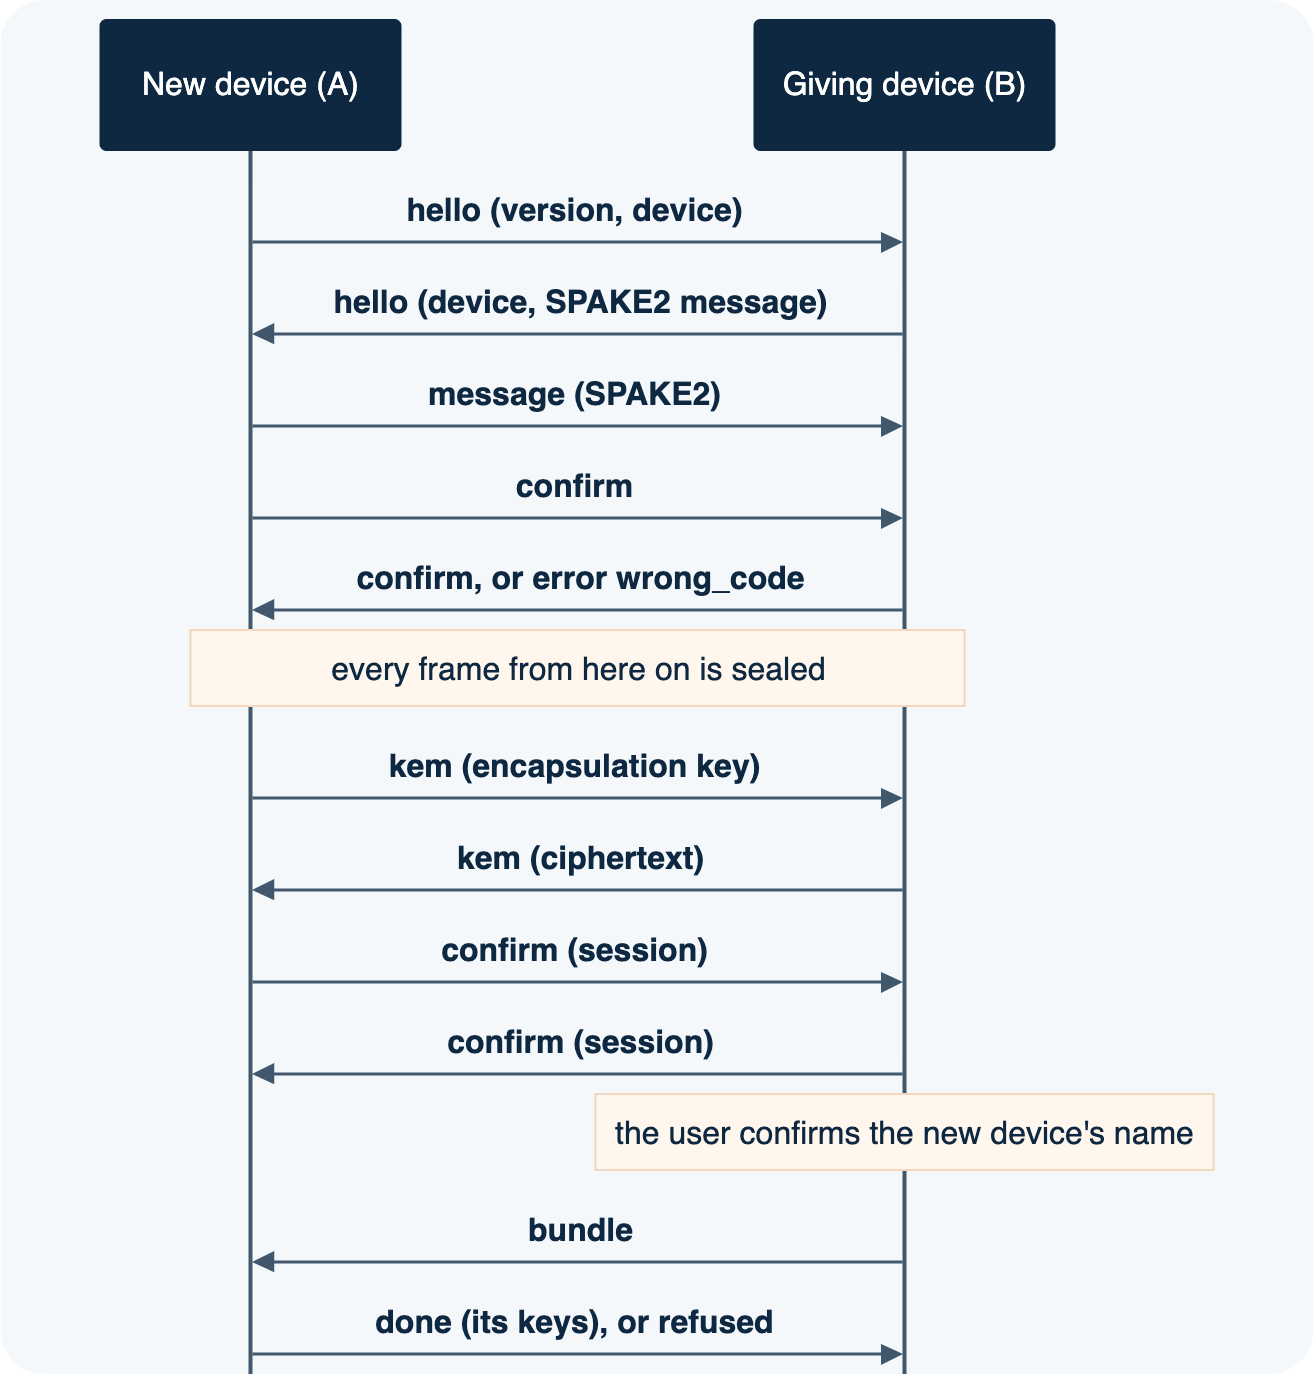
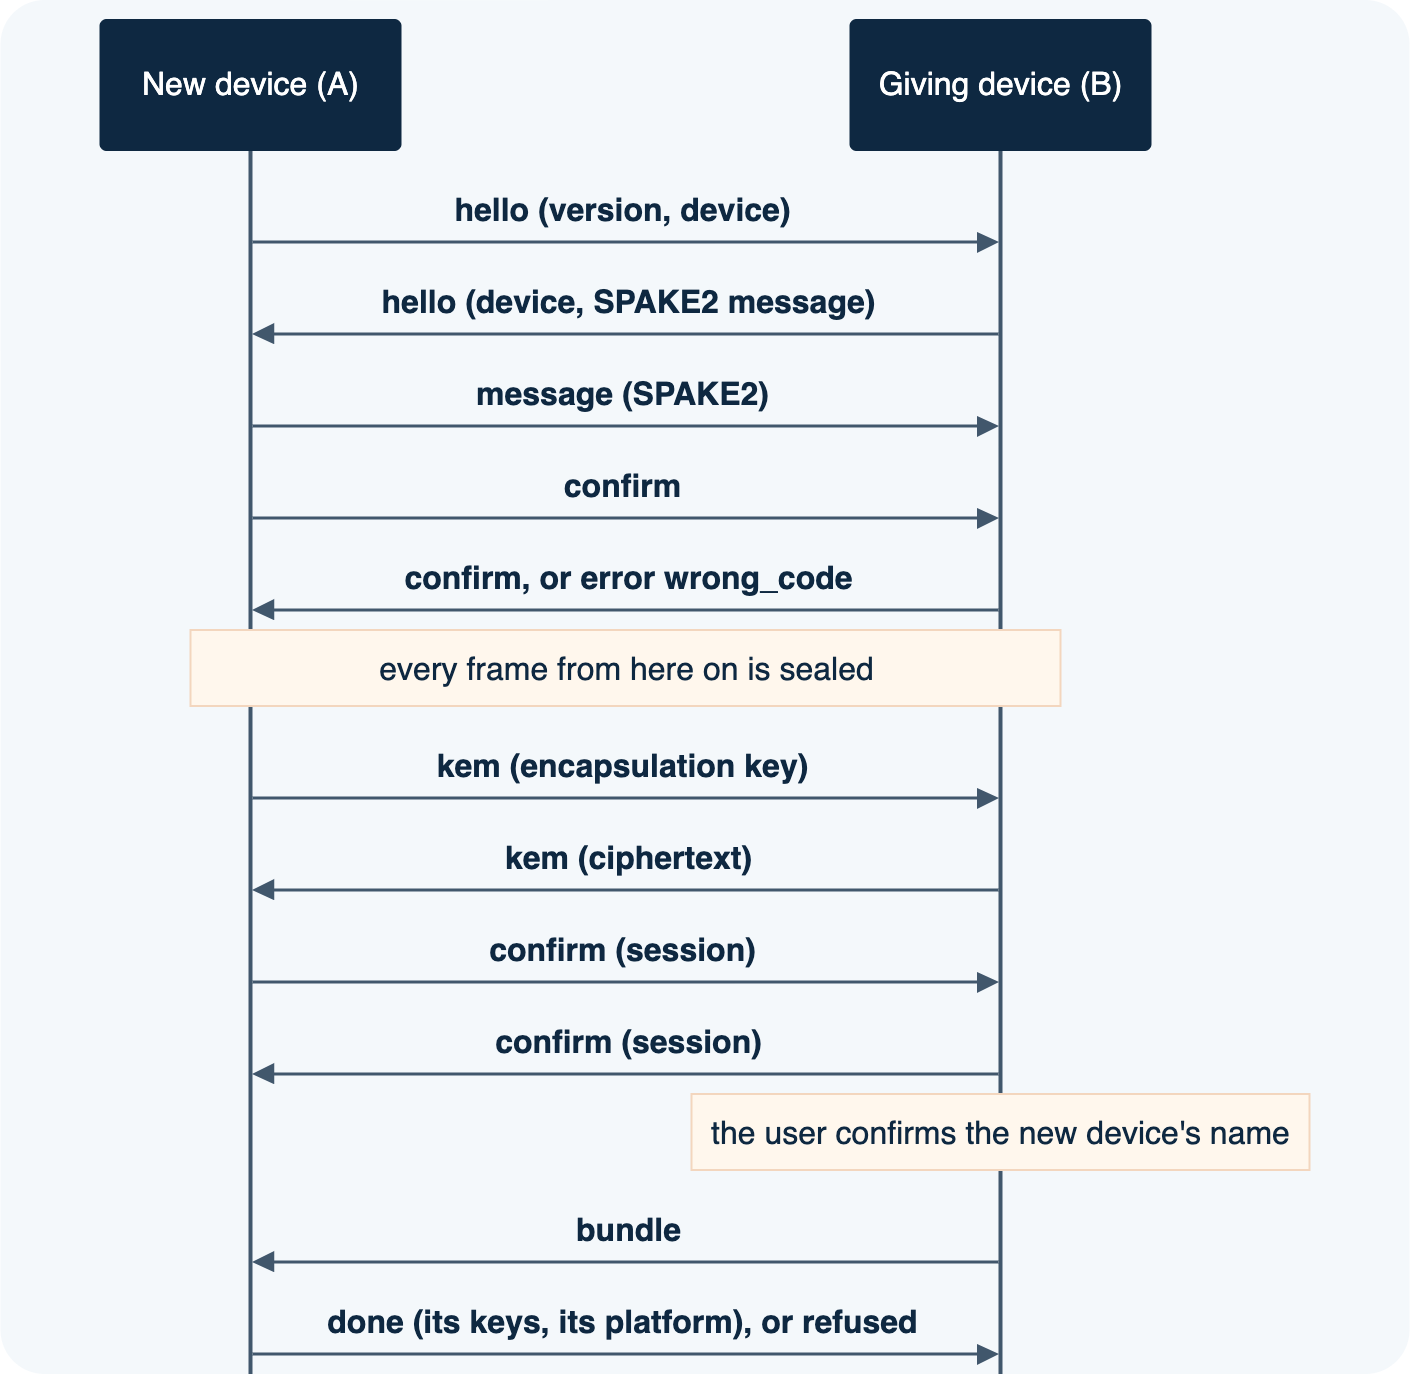
doc/flows.md: the pairing's done names the device's platform

diff --git a/doc/flows.md b/doc/flows.md
@@ -364,7 +364,7 @@ sequenceDiagram
   G-&gt;&gt;N: confirm (session)
   Note over G: the user confirms the new device's name
   G-&gt;&gt;N: bundle
-  N-&gt;&gt;G: done (its keys), or refused
+  N-&gt;&gt;G: done (its keys, its platform), or refused
 ```
 -->
 
@@ -554,7 +554,9 @@ file, repository key), the shared configuration, the GitHub tokens with
 their expiry, and the giver's public keys with its link address and, when
 agreed, the relay and link id of the approval link. Never a private key,
 the master password, the allow list or the audit log. The new device
-answers `done` with its own public keys.
+answers `done` with its own public keys and its platform (`macos`,
+`windows`, `linux`, `ios`, `android`), which the giver keeps in the new
+device's record.
 
 This diagram shows what the giving side records.
 
